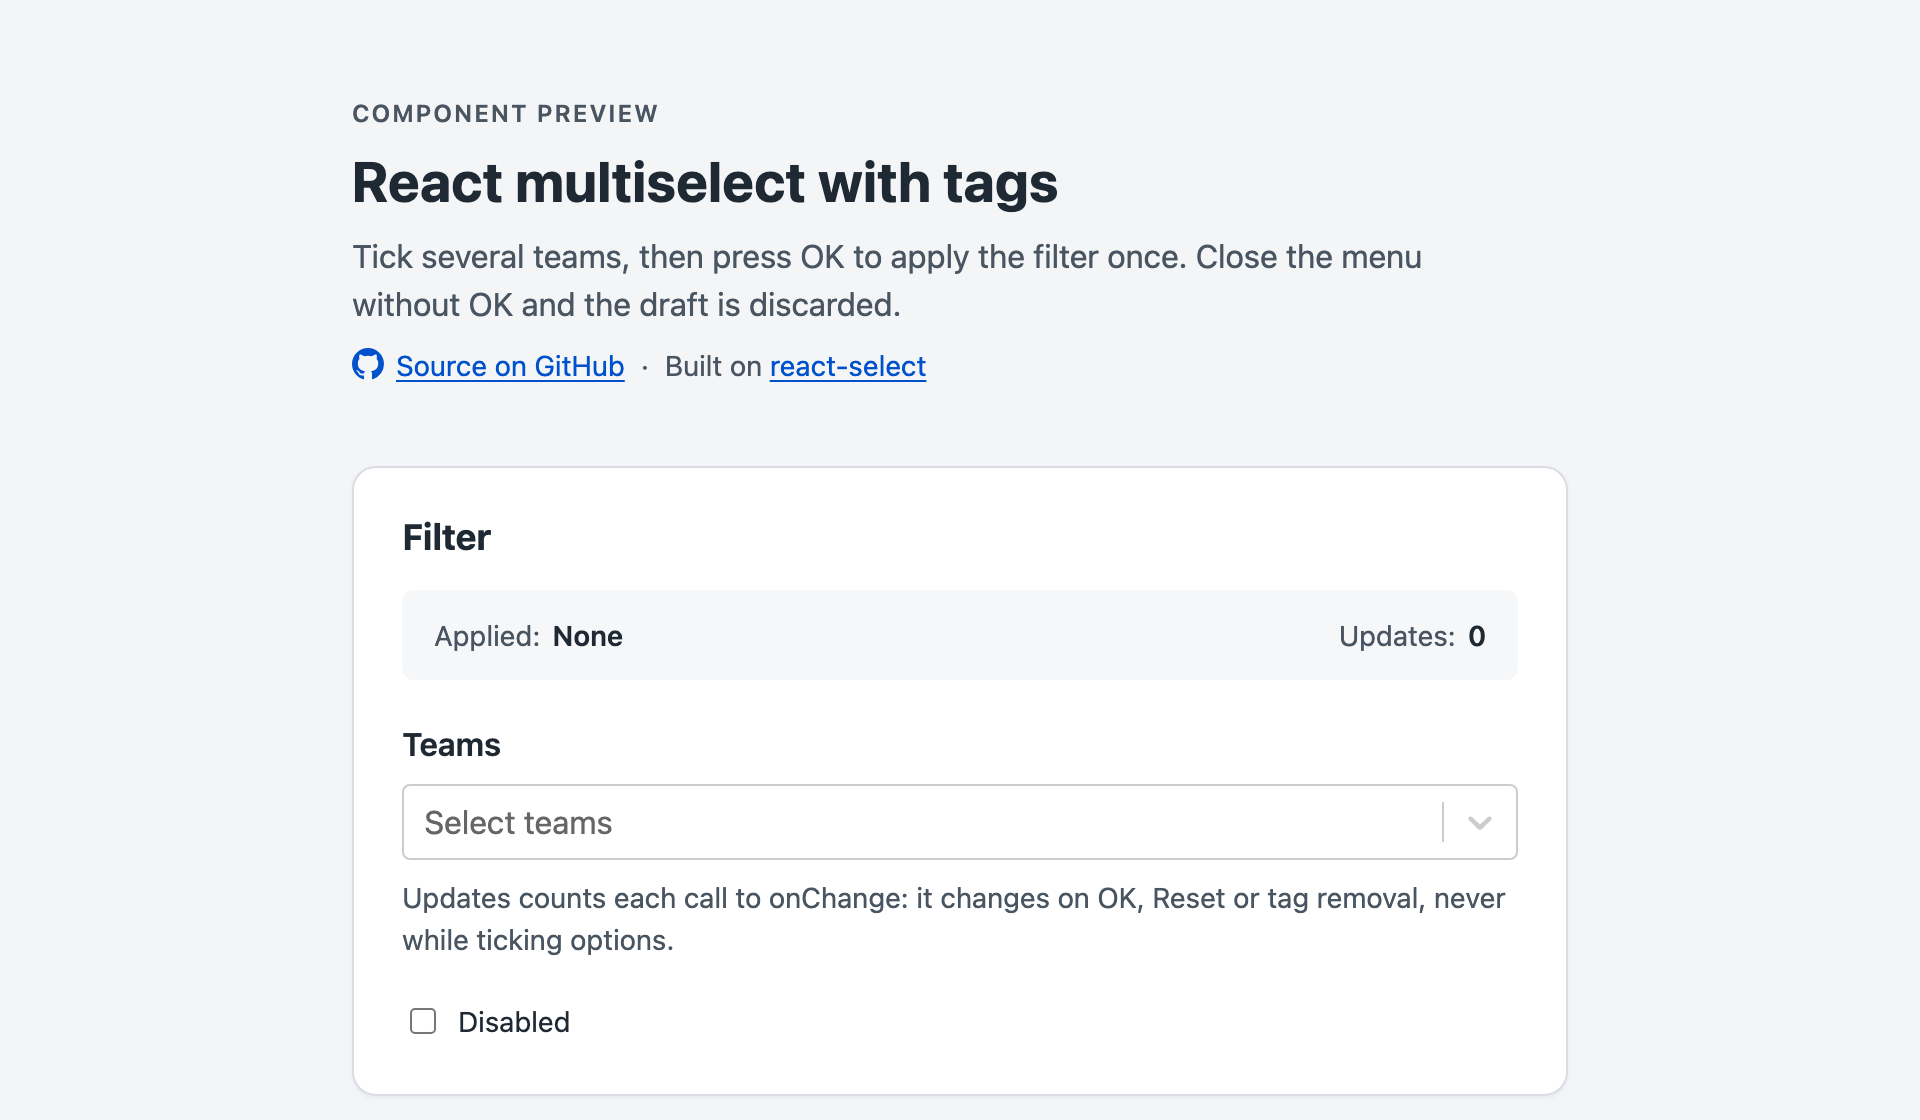
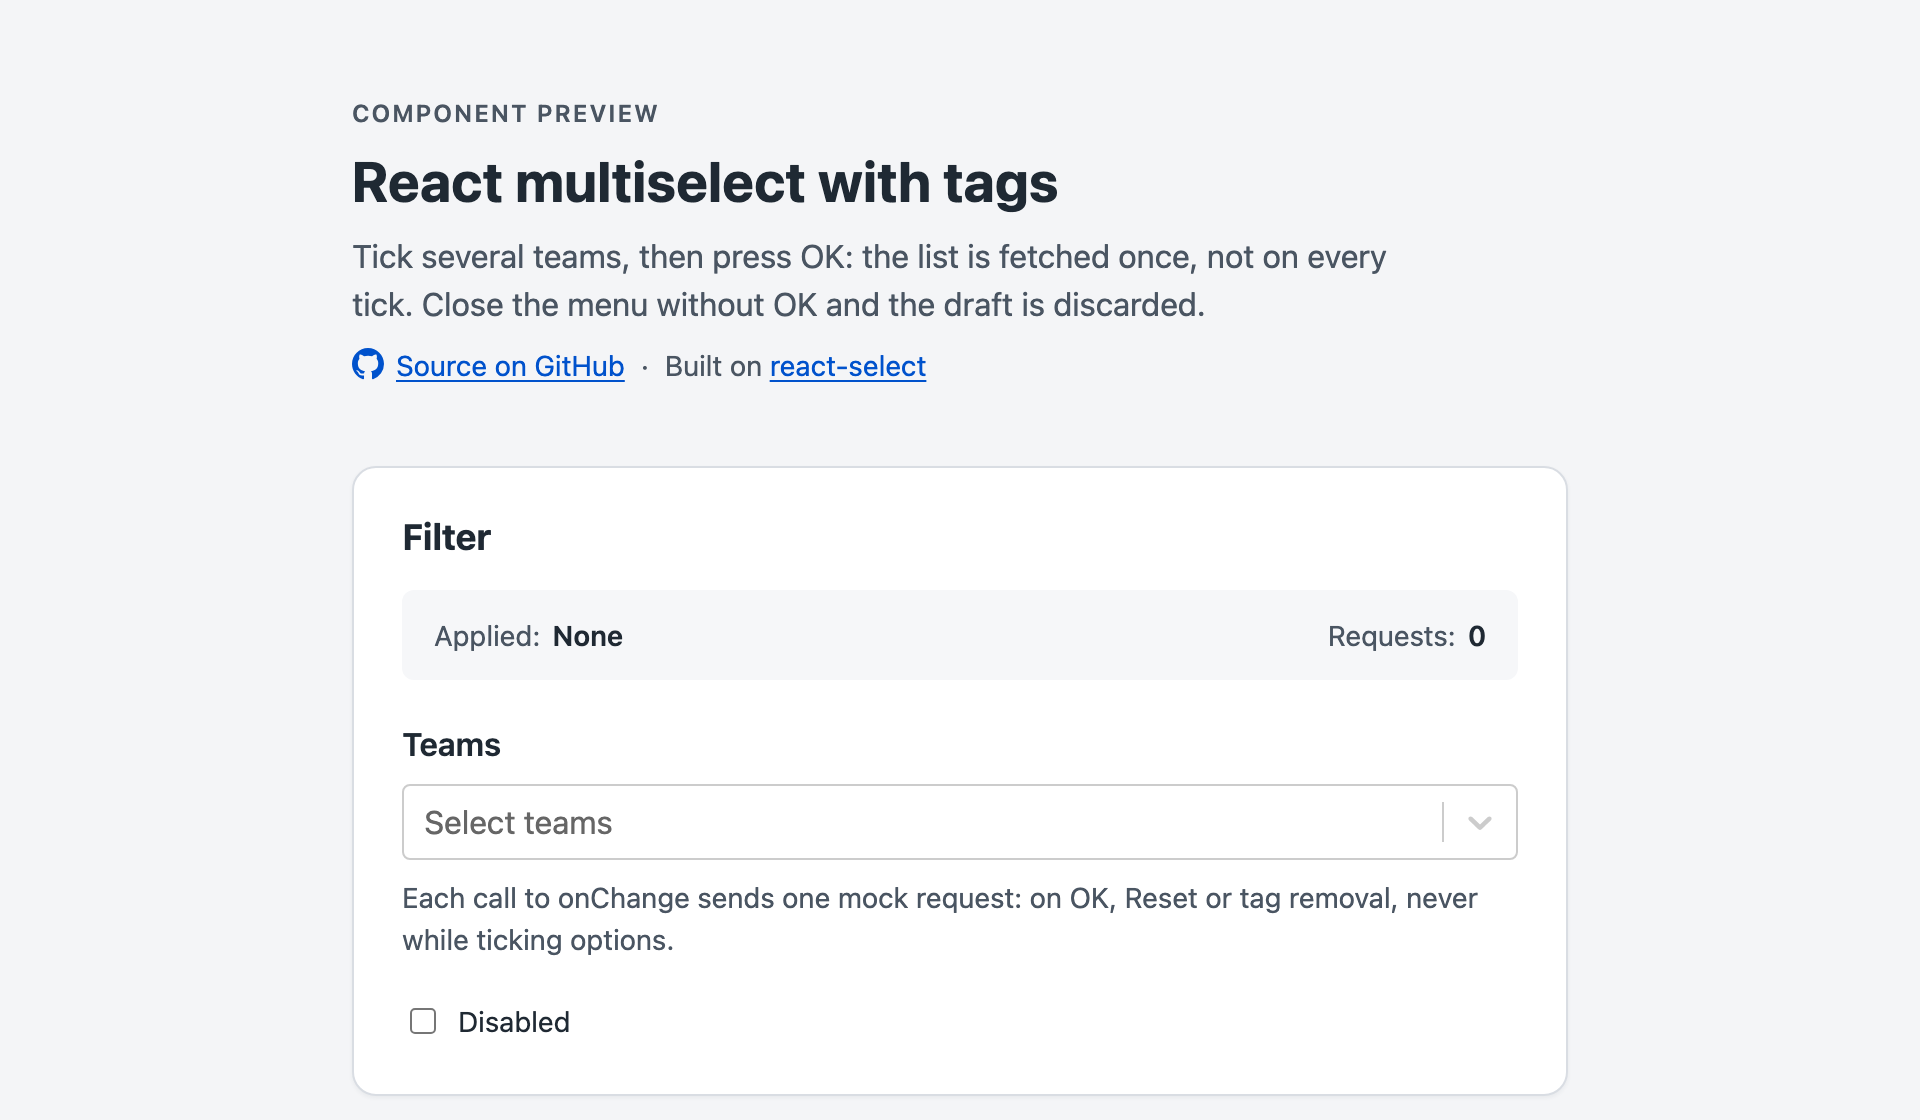
feat(demo): show one mock request per applied filter

Changed region(s): [[0.1875, 0.2188, 0.75, 0.2812], [0.2188, 0.7812, 0.7812, 0.8125], [0.6875, 0.5625, 0.75, 0.5938]]

diff --git a/src/main.tsx b/src/main.tsx
@@ -1,4 +1,4 @@
-import { StrictMode, useState } from 'react';
+import { StrictMode, useRef, useState } from 'react';
 import { createRoot } from 'react-dom/client';
 
 import { GitHubIcon } from './GitHubIcon';
@@ -21,10 +21,66 @@ const teams: MultiSelectOption[] = [
   { value: 'sales-operations', label: 'Sales Operations' },
 ];
 
+type Person = { name: string; team: string };
+
+const people: Person[] = [
+  { name: 'Amara Okafor', team: 'customer-success' },
+  { name: 'Lena Fischer', team: 'design' },
+  { name: 'Tomás Herrera', team: 'design' },
+  { name: 'Priya Raman', team: 'engineering' },
+  { name: 'Marco Bianchi', team: 'engineering' },
+  { name: 'Yuki Tanaka', team: 'engineering' },
+  { name: 'Grace Mensah', team: 'finance' },
+  { name: 'Oliver Grant', team: 'legal' },
+  { name: 'Sofia Lindqvist', team: 'marketing' },
+  { name: 'Daniel Costa', team: 'marketing' },
+  { name: 'Hana Novak', team: 'operations' },
+  { name: 'Samuel Reyes', team: 'people' },
+  { name: 'Chloé Martin', team: 'product' },
+  { name: 'Arjun Mehta', team: 'product' },
+  { name: 'Ingrid Berg', team: 'research-and-development' },
+  { name: 'Kwame Asante', team: 'sales' },
+  { name: 'Elena Petrova', team: 'sales' },
+  { name: 'Noah Williams', team: 'sales-operations' },
+];
+
+const teamLabels = new Map(teams.map((team) => [team.value, team.label]));
+
+// Stands in for an API call: answers after a network-like delay. No teams
+// means no filter.
+function fetchPeople(
+  teamValues: string[],
+  signal: AbortSignal,
+): Promise<Person[]> {
+  return new Promise((resolve, reject) => {
+    const timer = setTimeout(() => {
+      resolve(
+        teamValues.length === 0
+          ? people
+          : people.filter((person) => teamValues.includes(person.team)),
+      );
+    }, 400);
+    signal.addEventListener(
+      'abort',
+      () => {
+        clearTimeout(timer);
+        reject(signal.reason);
+      },
+      { once: true },
+    );
+  });
+}
+
 function Demo() {
   const [values, setValues] = useState<string[]>([]);
 
-  const [valuesCounter, setValuesCounter] = useState(0);
+  const [requestCount, setRequestCount] = useState(0);
+
+  const [results, setResults] = useState(people);
+
+  const [isLoading, setIsLoading] = useState(false);
+
+  const requestRef = useRef<AbortController | null>(null);
 
   const [isDisabled, setIsDisabled] = useState(false);
 
@@ -35,14 +91,36 @@ function Demo() {
     .filter((team) => values.includes(team.value))
     .map((team) => team.label);
 
+  // One request per applied change. A newer request cancels the older one,
+  // so a slow response never overwrites a newer filter.
+  function applyFilter(nextValues: string[]) {
+    setValues(nextValues);
+    setRequestCount((prev) => prev + 1);
+    setIsLoading(true);
+
+    requestRef.current?.abort();
+    const controller = new AbortController();
+    requestRef.current = controller;
+
+    fetchPeople(nextValues, controller.signal).then(
+      (nextResults) => {
+        setResults(nextResults);
+        setIsLoading(false);
+      },
+      () => {
+        // Aborted: the newer request takes over, loading stays on.
+      },
+    );
+  }
+
   return (
     <main className="demo">
       <header className="demo-header">
         <p className="demo-eyebrow">Component preview</p>
         <h1>React multiselect with tags</h1>
         <p>
-          Tick several teams, then press OK to apply the filter once. Close the
-          menu without OK and the draft is discarded.
+          Tick several teams, then press OK: the list is fetched once, not on
+          every tick. Close the menu without OK and the draft is discarded.
         </p>
         <p className="demo-links">
           <a
@@ -69,8 +147,8 @@ function Demo() {
             </dd>
           </div>
           <div>
-            <dt>Updates</dt>
-            <dd>{valuesCounter}</dd>
+            <dt>Requests</dt>
+            <dd>{requestCount}</dd>
           </div>
         </dl>
         <label className="demo-label" htmlFor="teams">
@@ -84,13 +162,10 @@ function Demo() {
           ariaDescribedBy="teams-help"
           disabled={isDisabled}
           values={values}
-          onChange={(nextValues) => {
-            setValues(nextValues);
-            setValuesCounter((prev) => prev + 1);
-          }}
+          onChange={applyFilter}
         />
         <p id="teams-help" className="demo-help">
-          Updates counts each call to onChange: it changes on OK, Reset or tag
+          Each call to onChange sends one mock request: on OK, Reset or tag
           removal, never while ticking options.
         </p>
         <label className="demo-toggle">
@@ -101,6 +176,30 @@ function Demo() {
           />
           Disabled
         </label>
+      </section>
+      <section
+        className="demo-card"
+        aria-labelledby="results-title"
+        aria-busy={isLoading}
+      >
+        <div className="demo-results-header">
+          <h2 id="results-title">People</h2>
+          <output className="demo-results-status">
+            {isLoading
+              ? 'Loading…'
+              : `${results.length} ${results.length === 1 ? 'person' : 'people'}`}
+          </output>
+        </div>
+        <ul className="demo-results" data-loading={isLoading || undefined}>
+          {results.map((person) => (
+            <li key={person.name}>
+              <span>{person.name}</span>
+              <span className="demo-results-team">
+                {teamLabels.get(person.team)}
+              </span>
+            </li>
+          ))}
+        </ul>
       </section>
       <div ref={setMenuHost} />
     </main>

diff --git a/e2e/demo.spec.ts b/e2e/demo.spec.ts
@@ -10,13 +10,16 @@ test('filter teams with a draft, then apply once', async ({ page }) => {
 
   const teams = page.getByRole('combobox', { name: 'Teams' });
   const applied = page.locator('.demo-summary dd').first();
-  const updates = page.locator('.demo-summary dd').last();
+  const requests = page.locator('.demo-summary dd').last();
+  const people = page.getByRole('region', { name: 'People' });
+  const status = people.getByRole('status');
   const option = (name: string) => page.getByRole('option', { name });
   const button = (name: string) =>
     page.getByRole('button', { name, exact: true });
 
   await expect(applied).toHaveText('None');
-  await expect(updates).toHaveText('0');
+  await expect(requests).toHaveText('0');
+  await expect(status).toHaveText('18 people');
 
   // Draft: search, tick three options, nothing applied yet.
   await teams.click();
@@ -25,13 +28,13 @@ test('filter teams with a draft, then apply once', async ({ page }) => {
   await teams.fill('');
   await option('Design').click();
   await option('Finance').click();
-  await expect(updates).toHaveText('0');
+  await expect(requests).toHaveText('0');
   await expect(applied).toHaveText('None');
 
   // Closing without OK discards the draft.
   await page.keyboard.press('Escape');
   await expect(page.getByRole('listbox')).toBeHidden();
-  await expect(updates).toHaveText('0');
+  await expect(requests).toHaveText('0');
 
   // Apply with the keyboard: Tab to the footer, Enter on OK.
   await teams.press('ArrowDown');
@@ -43,19 +46,23 @@ test('filter teams with a draft, then apply once', async ({ page }) => {
   await page.keyboard.press('Enter');
   await expect(teams).toBeFocused();
   await expect(applied).toHaveText('Customer Success, Engineering');
-  await expect(updates).toHaveText('1');
+  await expect(requests).toHaveText('1');
+  await expect(status).toHaveText('4 people');
+  await expect(people.getByRole('listitem')).toHaveCount(4);
 
   // Removing a tag applies at once.
   await page.getByRole('button', { name: 'Remove Customer Success' }).click();
   await expect(applied).toHaveText('Engineering');
-  await expect(updates).toHaveText('2');
+  await expect(requests).toHaveText('2');
+  await expect(status).toHaveText('3 people');
 
   // Reset clears immediately and keeps the menu open.
   await teams.click();
   await button('Reset').click();
   await expect(applied).toHaveText('None');
-  await expect(updates).toHaveText('3');
+  await expect(requests).toHaveText('3');
   await expect(page.getByRole('listbox')).toBeVisible();
+  await expect(status).toHaveText('18 people');
 
   const { violations } = await new AxeBuilder({ page })
     .exclude(KNOWN_CONTRAST_ISSUE)

diff --git a/src/demo.css b/src/demo.css
@@ -96,7 +96,7 @@ a:focus-visible,
 }
 
 .demo-summary > div:first-child {
-  /* Below ~14rem Updates wraps to its own line instead of squeezing Applied. */
+  /* Below ~14rem Requests wraps to its own line instead of squeezing Applied. */
   flex: 1 1 14rem;
 }
 
@@ -152,6 +152,60 @@ a:focus-visible,
   flex-shrink: 0;
   width: 1rem;
   height: 1rem;
+}
+
+/* Mock results: what the parent fetched after the last onChange. */
+.demo-results-header {
+  display: flex;
+  flex-wrap: wrap;
+  gap: 0.25rem 1rem;
+  align-items: baseline;
+  justify-content: space-between;
+  margin-bottom: 1rem;
+}
+
+.demo-results-header h2 {
+  margin: 0;
+}
+
+.demo-results-status {
+  color: #4a5562;
+  font-size: 0.875rem;
+}
+
+.demo-results {
+  margin: 0;
+  padding: 0;
+  list-style: none;
+  font-size: 0.875rem;
+  transition: opacity 150ms;
+}
+
+.demo-results[data-loading] {
+  opacity: 0.5;
+}
+
+.demo-results li {
+  display: flex;
+  flex-wrap: wrap;
+  gap: 0 1rem;
+  justify-content: space-between;
+  padding: 0.5rem 0;
+  border-top: 1px solid #eceef1;
+}
+
+.demo-results li:first-child {
+  border-top: 0;
+}
+
+.demo-results-team {
+  color: #4a5562;
+}
+
+@media (prefers-reduced-motion: reduce) {
+  .demo-results {
+    transition: none;
+  }
 }
 
 @media (max-width: 30rem) {
